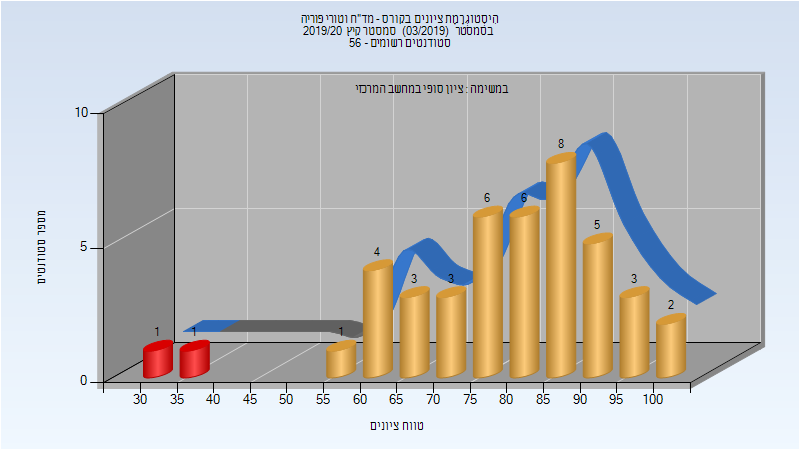
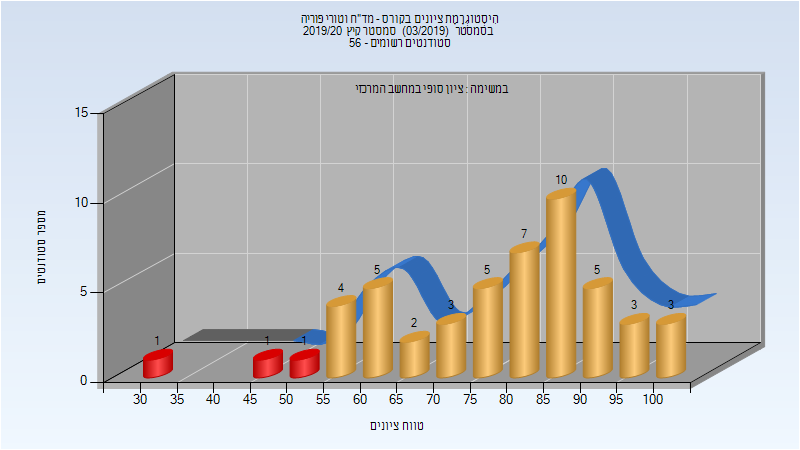
Deploy michael-maltsev/technion-histograms to github.com/michael-maltsev/technion-histograms.git:gh-pages

diff --git a/104223/index.html b/104223/index.html
@@ -2548,6 +2548,58 @@
 </tr>
 </tbody>
 </table>
+<h3>מבחן מועד ב'</h3>
+<p><img src="201903/Exam_B.png" alt="201903 Exam_B" /></p>
+<table>
+<thead>
+<tr>
+<th>סטודנטים</th>
+<th>עברו/נכשלו</th>
+<th>אחוז עוברים</th>
+<th>ציון מינימלי</th>
+<th>ציון מקסימלי</th>
+<th>ממוצע</th>
+<th>חציון</th>
+</tr>
+</thead>
+<tbody>
+<tr>
+<td>13</td>
+<td>5/8</td>
+<td>38</td>
+<td>34</td>
+<td>91</td>
+<td>52.077</td>
+<td>43</td>
+</tr>
+</tbody>
+</table>
+<h3>סופי מועד ב'</h3>
+<p><img src="201903/Final_B.png" alt="201903 Final_B" /></p>
+<table>
+<thead>
+<tr>
+<th>סטודנטים</th>
+<th>עברו/נכשלו</th>
+<th>אחוז עוברים</th>
+<th>ציון מינימלי</th>
+<th>ציון מקסימלי</th>
+<th>ממוצע</th>
+<th>חציון</th>
+</tr>
+</thead>
+<tbody>
+<tr>
+<td>13</td>
+<td>11/2</td>
+<td>85</td>
+<td>49</td>
+<td>100</td>
+<td>69.615</td>
+<td>60</td>
+</tr>
+</tbody>
+</table>
 <h3>סופי</h3>
 <p><img src="201903/Finals.png" alt="201903 Finals" /></p>
 <table>
@@ -2564,12 +2616,12 @@
 </thead>
 <tbody>
 <tr>
-<td>43</td>
-<td>41/2</td>
-<td>95</td>
+<td>50</td>
+<td>47/3</td>
+<td>94</td>
 <td>32</td>
 <td>100</td>
-<td>79.093</td>
+<td>78.12</td>
 <td>83</td>
 </tr>
 </tbody>

diff --git a/104223/README.md b/104223/README.md
@@ -802,11 +802,27 @@
 | ---- | ---- | ---- | ---- | ---- | ---- | ---- |
 | 43 | 41/2 | 95 | 32 | 100 | 79.093 | 83 |
 
+### מבחן מועד ב'
+
+![201903 Exam_B](201903/Exam_B.png)
+
+| סטודנטים | עברו/נכשלו | אחוז עוברים | ציון מינימלי | ציון מקסימלי | ממוצע | חציון |
+| ---- | ---- | ---- | ---- | ---- | ---- | ---- |
+| 13 | 5/8 | 38 | 34 | 91 | 52.077 | 43 |
+
+### סופי מועד ב'
+
+![201903 Final_B](201903/Final_B.png)
+
+| סטודנטים | עברו/נכשלו | אחוז עוברים | ציון מינימלי | ציון מקסימלי | ממוצע | חציון |
+| ---- | ---- | ---- | ---- | ---- | ---- | ---- |
+| 13 | 11/2 | 85 | 49 | 100 | 69.615 | 60 |
+
 ### סופי
 
 ![201903 Finals](201903/Finals.png)
 
 | סטודנטים | עברו/נכשלו | אחוז עוברים | ציון מינימלי | ציון מקסימלי | ממוצע | חציון |
 | ---- | ---- | ---- | ---- | ---- | ---- | ---- |
-| 43 | 41/2 | 95 | 32 | 100 | 79.093 | 83 |
+| 50 | 47/3 | 94 | 32 | 100 | 78.12 | 83 |
 
